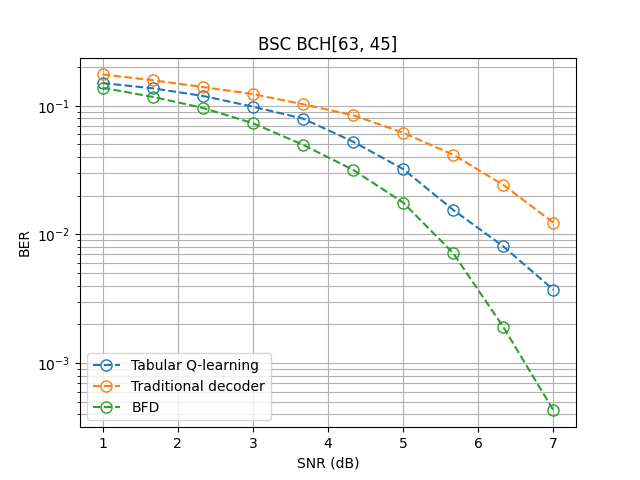
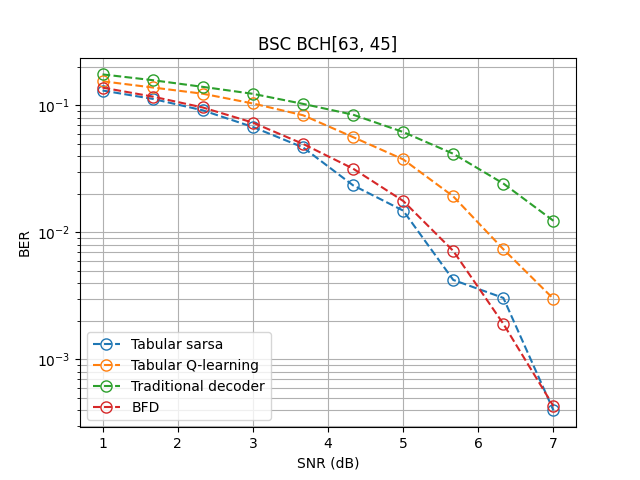
done

diff --git a/main.py b/main.py
@@ -186,7 +186,7 @@ def BHC_AWGN():
     # tabular setting
     agent_tabular = BCH_agent()
     _, _, env_sarsa, env_qlearn = fit(agent_tabular, channel, noise, type='tabular')
-    # BER_tabular_sarsa = eval(env_sarsa, channel, type='tabular')
+    BER_tabular_sarsa = eval(env_sarsa, channel, type='tabular')
     BER_tabular_qlearn = eval(env_qlearn, channel, type='tabular')
 
     # parameterized setting
@@ -207,7 +207,7 @@ def BHC_AWGN():
     name = 'BSC' + " " + code_type + "[" + code_label[0] + ", " + code_label[1] + "]" 
 
     # plot results
-    plot_BER(dB_range, BER_tabular_qlearn, bfd, bench, 'SNR (dB)', name, figure_name)
+    plot_BER(dB_range, BER_tabular_sarsa, BER_tabular_qlearn, bfd, bench, 'SNR (dB)', name, figure_name)
 
 ####################################################################################################################
 # 5. RM with AWGN
@@ -226,7 +226,7 @@ def RM_AWGN():
     # tabular setting
     agent_tabular = RM_agent(code_label)
     _, _, env_sarsa, env_qlearn = fit(agent_tabular, channel, noise, type='tabular')
-    # BER_tabular_sarsa = eval(env_sarsa, channel, type='tabular')
+    BER_tabular_sarsa = eval(env_sarsa, channel, type='tabular')
     BER_tabular_qlearn = eval(env_qlearn, channel, type='tabular')
 
     # # parameterized setting
@@ -247,7 +247,7 @@ def RM_AWGN():
     name = 'BSC' + " " + code_type + "[" + code_label[0] + ", " + code_label[1] + "]" 
 
     # plot results
-    plot_BER(dB_range, BER_tabular_qlearn, bench, bfd, 'SNR (dB)', name, figure_name)
+    plot_BER(dB_range, BER_tabular_sarsa, BER_tabular_qlearn, bench, bfd, 'SNR (dB)', name, figure_name)
 
 if __name__ == "__main__":
     main()

diff --git a/utils.py b/utils.py
@@ -3,8 +3,8 @@ import matplotlib.pyplot as plt
 from scipy.io import loadmat
 
 
-def plot_BER(x_vars, y_qlearn, bench, bfd, units, title, figure_name):
-    # plt.semilogy(x_vars, y_sarsa, marker='o', fillstyle='none', linestyle='--', linewidth=1.5, markersize=8, label='Tabular sarsa')
+def plot_BER(x_vars, y_sarsa, y_qlearn, bench, bfd, units, title, figure_name):
+    plt.semilogy(x_vars, y_sarsa, marker='o', fillstyle='none', linestyle='--', linewidth=1.5, markersize=8, label='Tabular sarsa')
     plt.semilogy(x_vars, y_qlearn, marker='o', fillstyle='none', linestyle='--', linewidth=1.5, markersize=8, label='Tabular Q-learning')
     plt.semilogy(x_vars, bench, marker='o', fillstyle='none', linestyle='--', linewidth=1.5, markersize=8, label='Traditional decoder')
     # plt.semilogy(x_vars, y_param, marker='o', fillstyle='none', linestyle='--', linewidth=1.5, markersize=8, label='NN sarsa')
